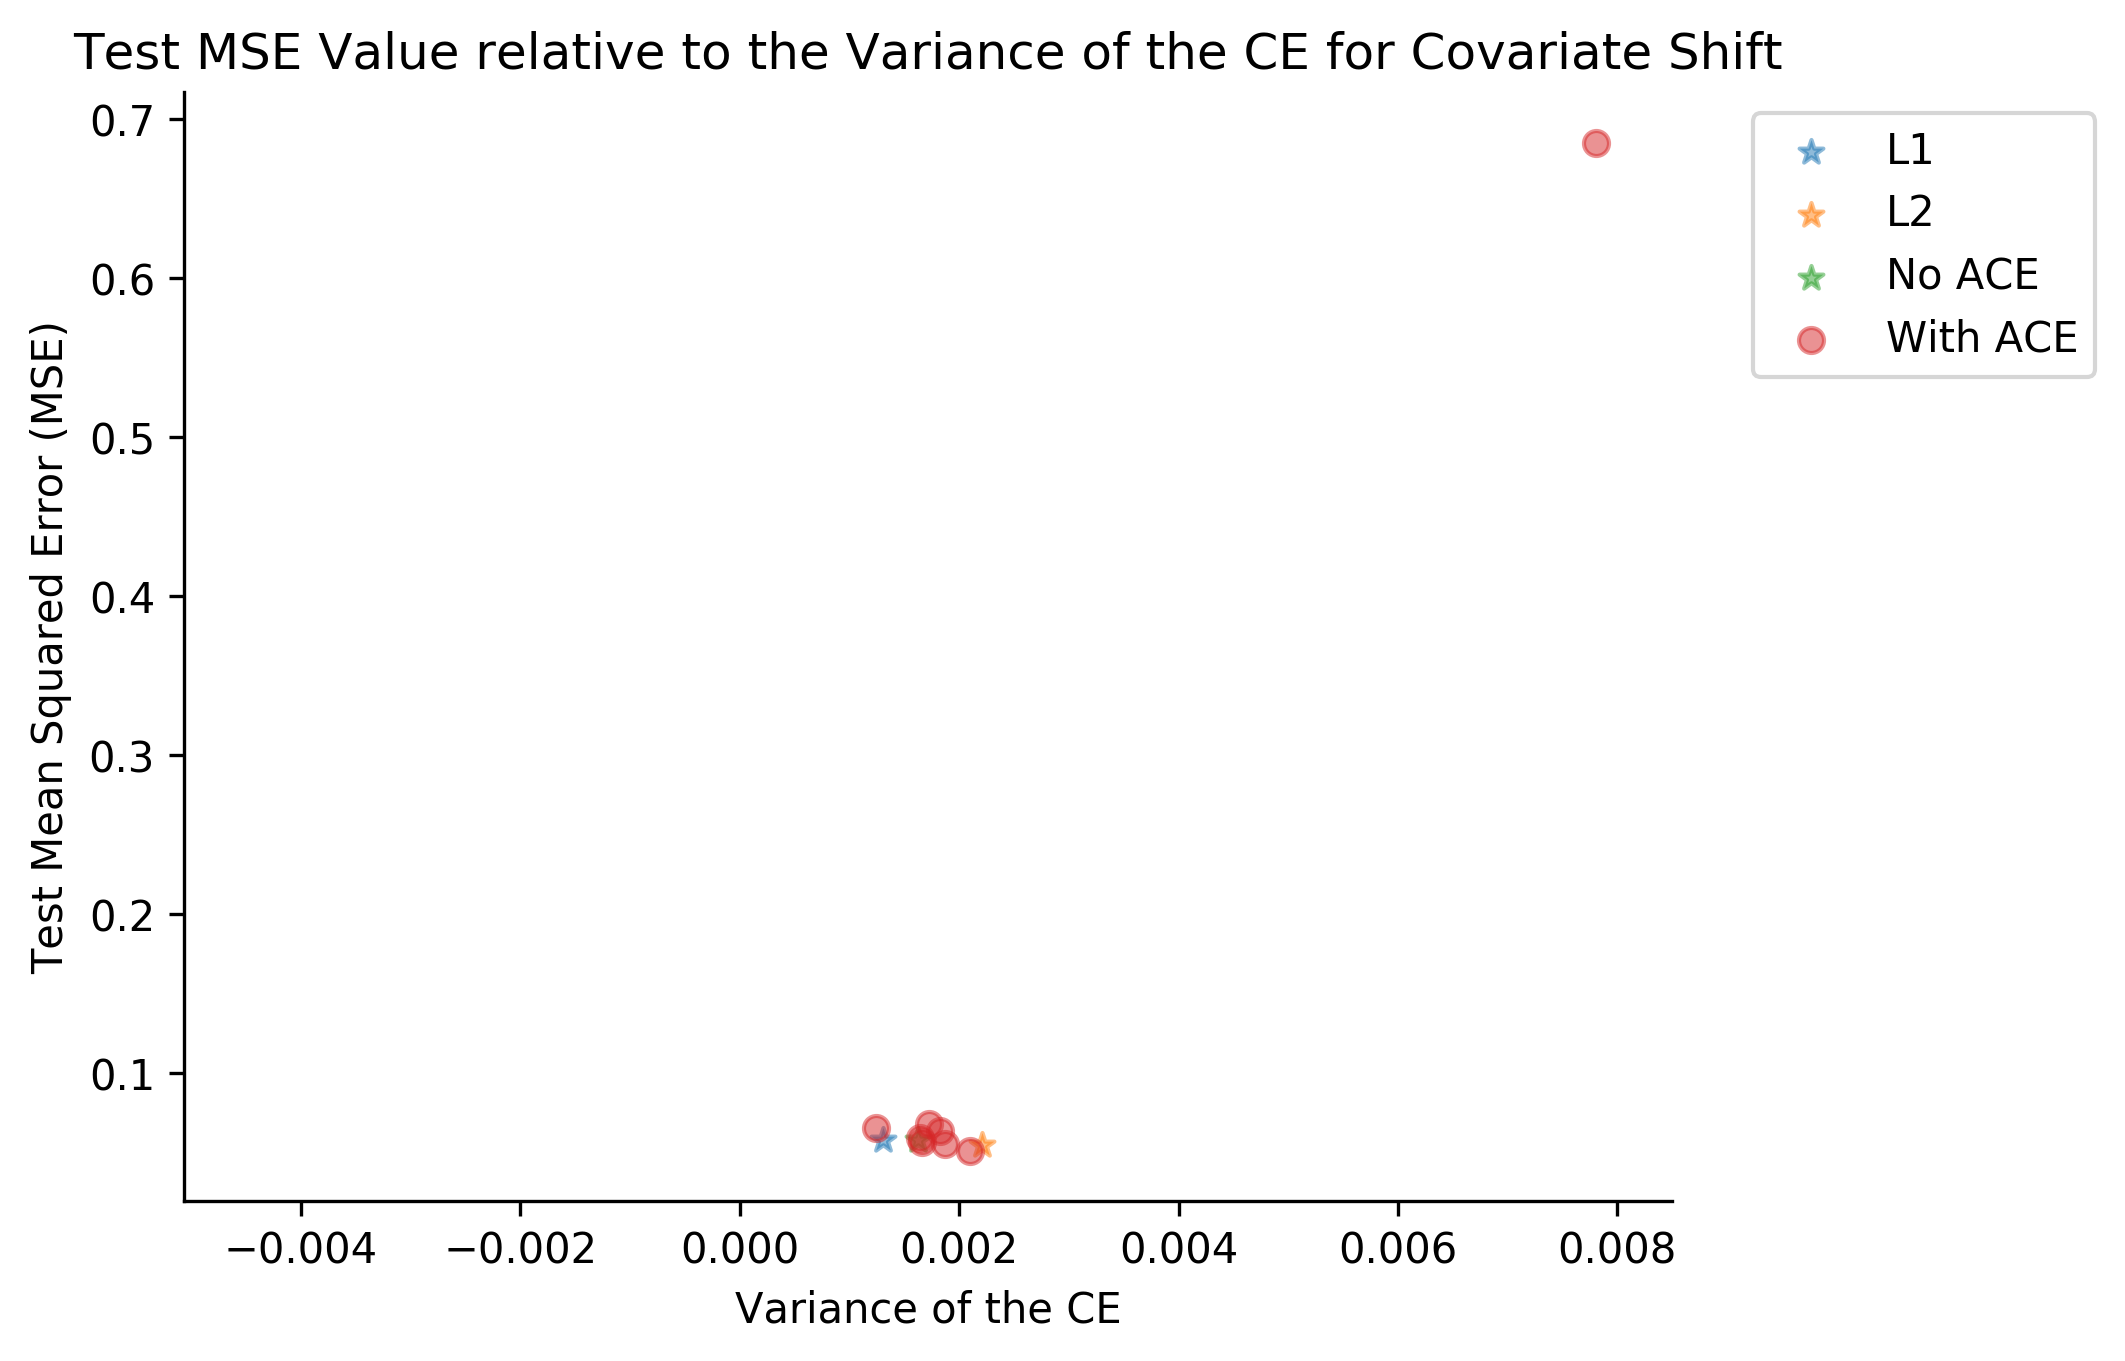
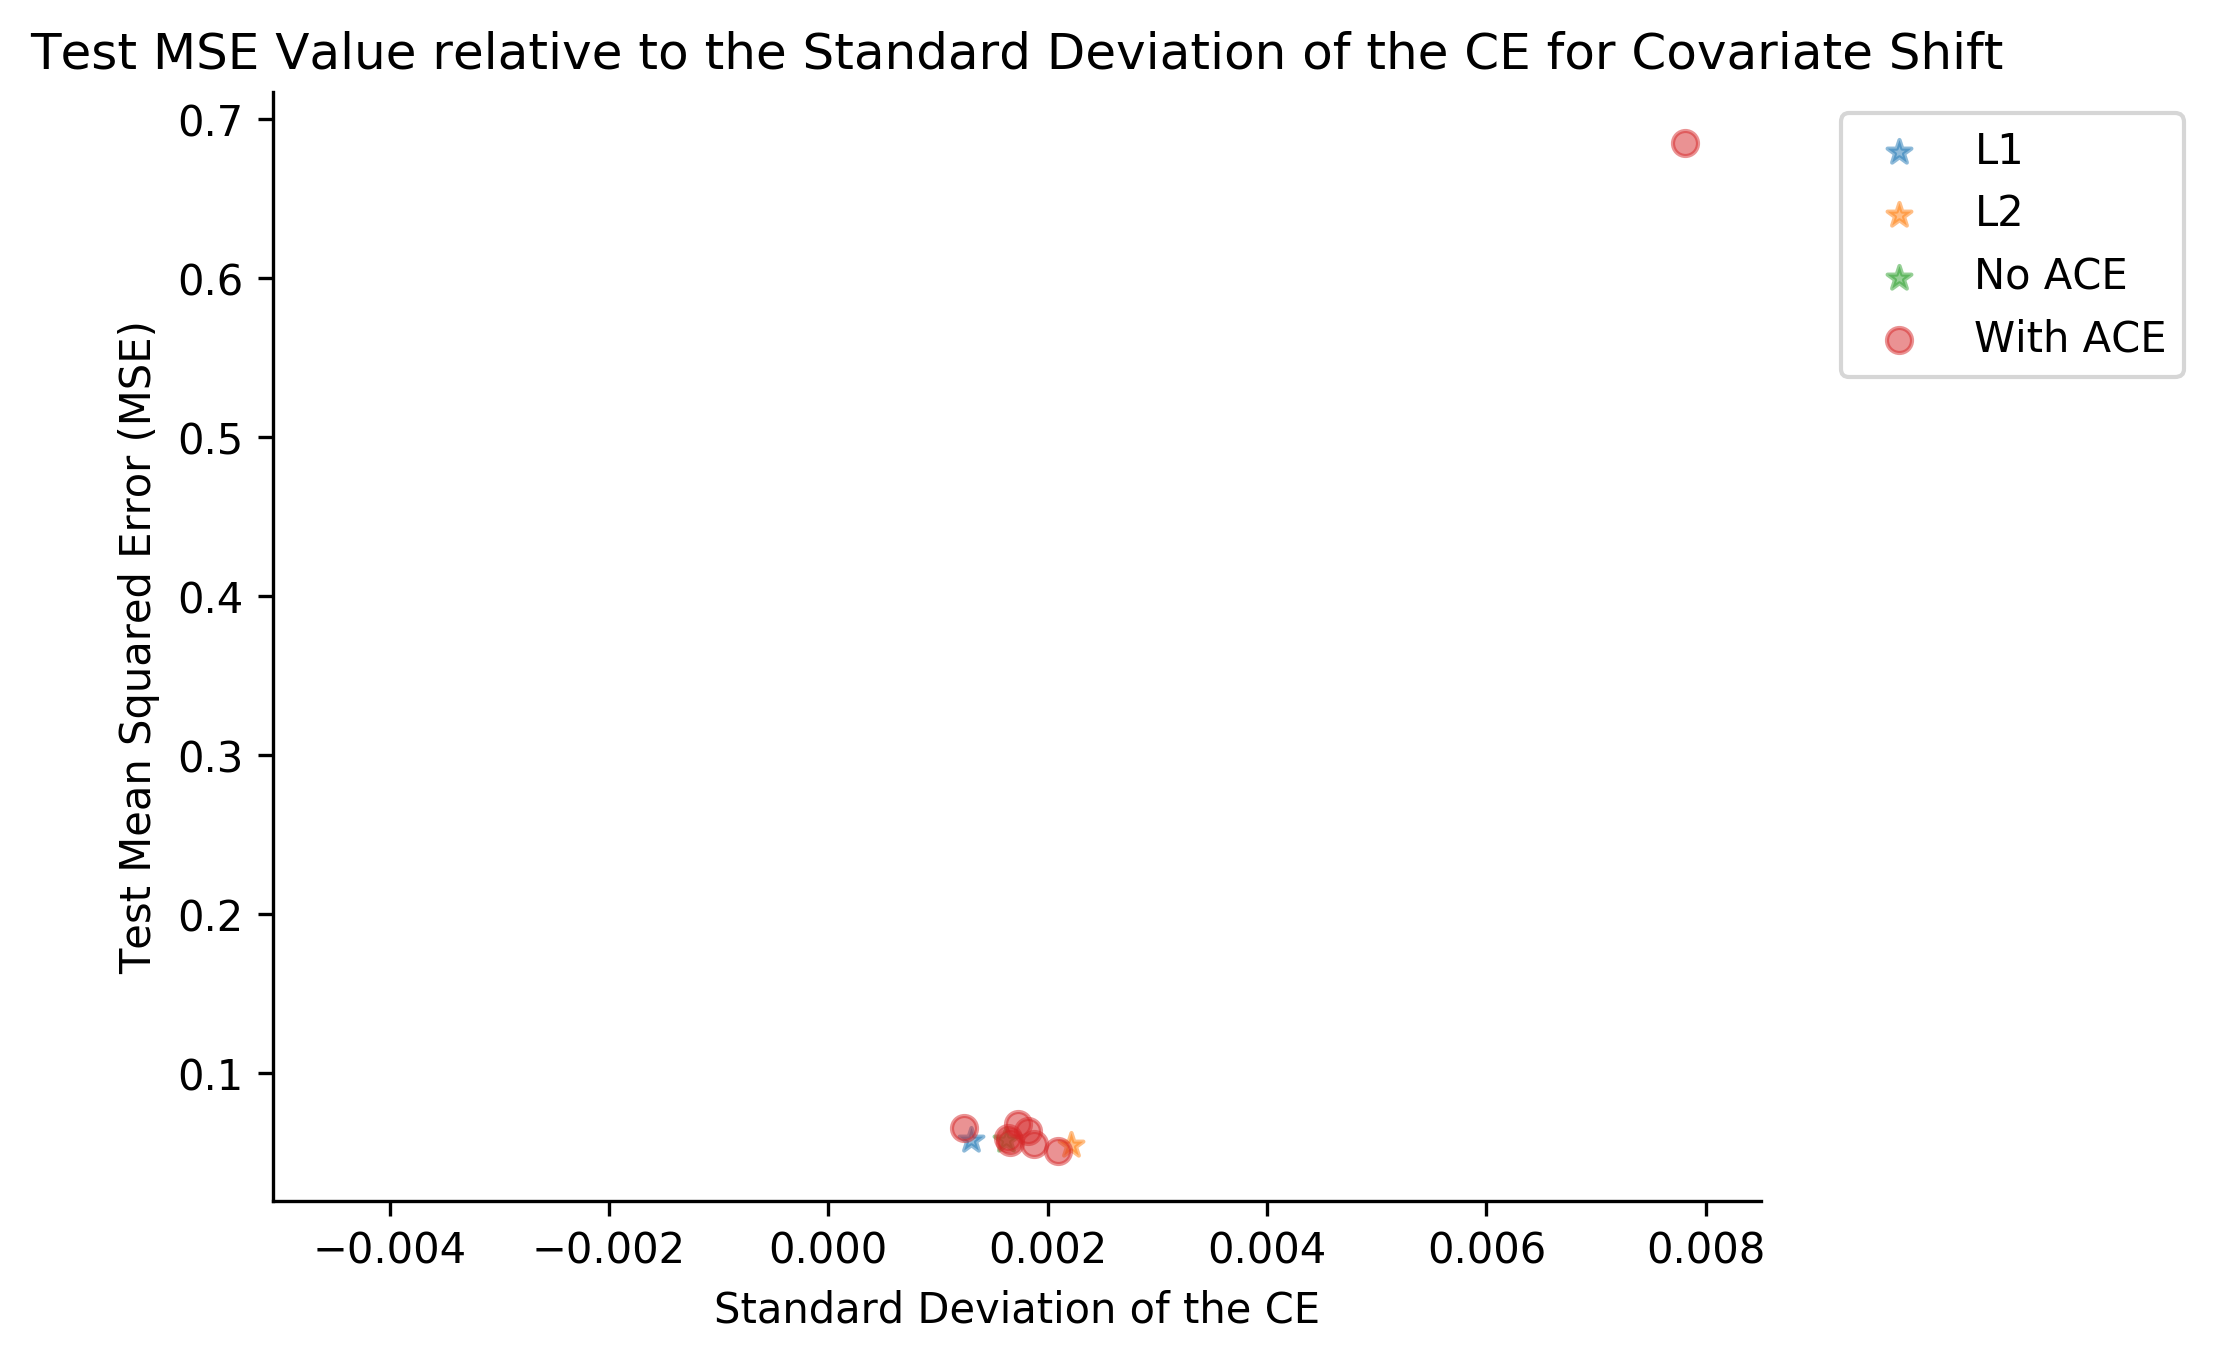
updated Figs

diff --git a/Project/plotting_results.py b/Project/plotting_results.py
@@ -1931,7 +1931,7 @@ plt.gca().spines['right'].set_visible(False)
 
 plt.xlabel('Training Epoch')
 plt.ylabel('Causal Effect (CE)')
-plt.title('CE Developement over the Training Epochs for each Case')
+plt.title('CE Development over the Training Epochs for each Case')
 plt.legend(loc='upper left', bbox_to_anchor=(1.04,1))
 plt.savefig('ACE_entwicklung_369.png', dpi=300, bbox_inches="tight")
 plt.close()
@@ -2040,7 +2040,7 @@ plt.gca().spines['right'].set_visible(False)
 
 plt.xlabel('Training Epoch')
 plt.ylabel('Causal Effect (CE)')
-plt.title('CE Developement over the Training Epochs for each Case')
+plt.title('CE Development over the Training Epochs for each Case')
 plt.legend(loc='upper left', bbox_to_anchor=(1.04,1))
 plt.savefig('ACE_entwicklung_394.png', dpi=300, bbox_inches="tight")
 plt.close()
@@ -2150,7 +2150,7 @@ plt.gca().spines['right'].set_visible(False)
 
 plt.xlabel('Training Epoch')
 plt.ylabel('Causal Effect (CE)')
-plt.title('CE Developement over the Training Epochs for each Case')
+plt.title('CE Development over the Training Epochs for each Case')
 plt.legend(loc='upper left', bbox_to_anchor=(1.04,1))
 plt.savefig('ACE_entwicklung_433.png', dpi=300, bbox_inches="tight")
 plt.close()
@@ -2259,7 +2259,7 @@ plt.gca().spines['right'].set_visible(False)
 
 plt.xlabel('Training Epoch')
 plt.ylabel('Causal Effect (CE)')
-plt.title('CE Developement over the Training Epochs for each Case')
+plt.title('CE Development over the Training Epochs for each Case')
 plt.legend(loc='upper left', bbox_to_anchor=(1.04,1))
 plt.savefig('ACE_entwicklung_501.png', dpi=300, bbox_inches="tight")
 plt.close()
@@ -2366,7 +2366,7 @@ plt.gca().spines['right'].set_visible(False)
 
 plt.xlabel('Training Epoch')
 plt.ylabel('Causal Effect (CE)')
-plt.title('CE Developement over the Training Epochs for each Case')
+plt.title('CE Development over the Training Epochs for each Case')
 plt.legend(loc='upper left', bbox_to_anchor=(1.04,1))
 plt.savefig('ACE_entwicklung_50100.png', dpi=300, bbox_inches="tight")
 plt.close()
@@ -2474,7 +2474,7 @@ plt.gca().spines['right'].set_visible(False)
 
 plt.xlabel('Training Epoch')
 plt.ylabel('Causal Effect (CE)')
-plt.title('CE Developement over the Training Epochs for each Case')
+plt.title('CE Development over the Training Epochs for each Case')
 plt.legend(loc='upper left', bbox_to_anchor=(1.04,1))
 plt.savefig('ACE_entwicklung_50.png', dpi=300, bbox_inches="tight")
 plt.close()
@@ -2583,7 +2583,7 @@ plt.gca().spines['right'].set_visible(False)
 
 plt.xlabel('Training Epoch')
 plt.ylabel('Causal Effect (CE)')
-plt.title('CE Developement over the Training Epochs for each Case')
+plt.title('CE Development over the Training Epochs for each Case')
 plt.legend(loc='upper left', bbox_to_anchor=(1.04,1))
 plt.savefig('ACE_entwicklung_noshift.png', dpi=300, bbox_inches="tight")
 plt.close()
@@ -2825,7 +2825,7 @@ plt.gca().spines['right'].set_visible(False)
 
 plt.xlabel('Training Epoch')
 plt.ylabel('Causal Effect (CE)')
-plt.title('CE Developement over the Training Epochs for all Datasets Combined')
+plt.title('CE Development over the Training Epochs for all Datasets Combined')
 plt.legend(loc='upper left', bbox_to_anchor=(1.04,1))
 plt.savefig('ACE_entwicklung_overall.png', dpi=300, bbox_inches="tight")
 plt.close()
@@ -2946,7 +2946,7 @@ plt.gca().spines['right'].set_visible(False)
 
 plt.xlabel('Training Epoch')
 plt.ylabel('Causal Effect (CE)')
-plt.title('CE Developement over the Training Epochs for each Case')
+plt.title('CE Development over the Training Epochs for each Case')
 plt.legend(loc='upper left', bbox_to_anchor=(1.04,1))
 plt.savefig('ACE_entwicklung_factors.png', dpi=300, bbox_inches="tight")
 plt.close()
@@ -3081,7 +3081,7 @@ plt.gca().spines['right'].set_visible(False)
 
 plt.xlabel('Training Epoch')
 plt.ylabel('Causal Effect (CE)')
-plt.title('CE Developement over the Training Epochs for each Case')
+plt.title('CE Development over the Training Epochs for each Case')
 plt.legend(loc='upper left', bbox_to_anchor=(1.04,1))
 plt.savefig('ACE_entwicklung_bias.png', dpi=300, bbox_inches="tight")
 plt.close()
@@ -3524,7 +3524,7 @@ plt.gca().spines['right'].set_visible(False)
 
 plt.xlabel('Training Epoch')
 plt.ylabel('Mean Squared Error (MSE)')
-plt.title('MSE Developement over the Training Epochs')
+plt.title('MSE Development over the Training Epochs')
 plt.legend(loc='upper left', bbox_to_anchor=(1.04,1))
 plt.title('Training MSE for all Datasets Combined')
 plt.savefig('Trainingserror_entwicklung_overall.png', dpi=300, bbox_inches="tight")
@@ -3594,7 +3594,7 @@ plt.gca().spines['right'].set_visible(False)
 
 plt.xlabel('Training Epoch')
 plt.ylabel('Mean Squared Error (MSE)')
-plt.title('MSE Developement over the Training Epochs')
+plt.title('MSE Development over the Training Epochs')
 plt.legend(loc='upper left', bbox_to_anchor=(1.04,1))
 plt.savefig('Trainingserror_entwicklung_factors.png', dpi=300, bbox_inches="tight")
 plt.close()
@@ -3663,7 +3663,7 @@ plt.gca().spines['right'].set_visible(False)
 
 plt.xlabel('Training Epoch')
 plt.ylabel('Mean Squared Error (MSE)')
-plt.title('MSE Developement over the Training Epochs')
+plt.title('MSE Development over the Training Epochs')
 plt.legend(loc='upper left', bbox_to_anchor=(1.04,1))
 plt.savefig('Trainingserror_entwicklung_bias.png', dpi=300, bbox_inches="tight")
 plt.close()
@@ -4108,7 +4108,7 @@ plt.gca().spines['right'].set_visible(False)
 
 plt.xlabel('Training Epoch')
 plt.ylabel('Variance of the ACE')
-plt.title('MSE Developement over the Training Epochs')
+plt.title('MSE Development over the Training Epochs')
 plt.legend(loc='upper left', bbox_to_anchor=(1.04,1))
 plt.title('Variance for all Datasets Combined')
 plt.savefig('Varianz_overall.png', dpi=300, bbox_inches="tight")
@@ -4178,7 +4178,7 @@ plt.gca().spines['right'].set_visible(False)
 
 plt.xlabel('Training Epoch')
 plt.ylabel('Variance of the ACE')
-plt.title('MSE Developement over the Training Epochs')
+plt.title('MSE Development over the Training Epochs')
 plt.legend(loc='upper left', bbox_to_anchor=(1.04,1))
 plt.title('Variance for Covariate Shift')
 plt.savefig('Varianz_factors.png', dpi=300, bbox_inches="tight")
@@ -4248,7 +4248,7 @@ plt.gca().spines['right'].set_visible(False)
 
 plt.xlabel('Training Epoch')
 plt.ylabel('Variance of the ACE')
-plt.title('MSE Developement over the Training Epochs')
+plt.title('MSE Development over the Training Epochs')
 plt.legend(loc='upper left', bbox_to_anchor=(1.04,1))
 plt.title('Variance for Prior Probability Shift')
 plt.savefig('Varianz_bias.png', dpi=300, bbox_inches="tight")
@@ -4494,8 +4494,8 @@ plt.gca().spines['top'].set_visible(False)
 plt.gca().spines['right'].set_visible(False)
 #plt.xlim(left=0)
 plt.xlabel('Causal Effect (CE)')
-plt.ylabel('Variance of the CE')
-plt.title('Variance of the CE relative to the CE Value for Covariate Shift')
+plt.ylabel('Standard Deviation of the CE')
+plt.title('Standard Deviation of the CE relative to the CE Value for Covariate Shift')
 plt.legend(loc='upper left', bbox_to_anchor=(1.04,1))
 plt.savefig('varianz_ACE_factor.png', dpi=300, bbox_inches="tight")
 plt.close()
@@ -4508,8 +4508,8 @@ plt.gca().spines['top'].set_visible(False)
 plt.gca().spines['right'].set_visible(False)
 #plt.xlim(left=0)
 plt.xlabel('Causal Effect (CE)')
-plt.ylabel('Variance of the CE')
-plt.title('Variance of the CE relative to the CE Value for Prior Probability Shift')
+plt.ylabel('Standard Deviation of the CE')
+plt.title('Standard Deviation of the CE relative to the CE Value for Prior Probability Shift')
 plt.legend(loc='upper left', bbox_to_anchor=(1.04,1))
 plt.savefig('varianz_ACE_bias.png', dpi=300, bbox_inches="tight")
 plt.close()
@@ -4522,8 +4522,8 @@ plt.gca().spines['top'].set_visible(False)
 plt.gca().spines['right'].set_visible(False)
 #plt.xlim(left=0)
 plt.xlabel('Causal Effect (CE)')
-plt.ylabel('Variance of the CE')
-plt.title('Variance of the CE relative to the CE Value')
+plt.ylabel('Standard Deviation of the CE')
+plt.title('Standard Deviation of the CE relative to the CE Value')
 plt.legend(loc='upper left', bbox_to_anchor=(1.04,1))
 plt.savefig('varianz_ACE_overall.png', dpi=300, bbox_inches="tight")
 plt.close()
@@ -4537,9 +4537,9 @@ plt.scatter(np.sqrt(mean_var_withACE_factor),mean_MSE_withACE_factor, label="Wit
 plt.gca().spines['top'].set_visible(False)
 plt.gca().spines['right'].set_visible(False)
 #plt.xlim(left=0)
-plt.xlabel('Variance of the CE')
+plt.xlabel('Standard Deviation of the CE')
 plt.ylabel('Test Mean Squared Error (MSE)')
-plt.title('Test MSE Value relative to the Variance of the CE for Covariate Shift')
+plt.title('Test MSE Value relative to the Standard Deviation of the CE for Covariate Shift')
 plt.legend(loc='upper left', bbox_to_anchor=(1.04,1))
 plt.savefig('MSE_varianz_factor.png', dpi=300, bbox_inches="tight")
 plt.close()
@@ -4551,9 +4551,9 @@ plt.scatter(np.sqrt(mean_var_withACE_bias),mean_MSE_withACE_bias, label="With AC
 plt.gca().spines['top'].set_visible(False)
 plt.gca().spines['right'].set_visible(False)
 #plt.xlim(left=0)
-plt.xlabel('Variance of the CE')
+plt.xlabel('Standard Deviation of the CE')
 plt.ylabel('Test Mean Squared Error (MSE)')
-plt.title('Test MSE Value relative to the Variance of the CE for Prior Probability Shift')
+plt.title('Test MSE Value relative to the Standard Deviation of the CE for Prior Probability Shift')
 plt.legend(loc='upper left', bbox_to_anchor=(1.04,1))
 plt.savefig('MSE_varianz_bias.png', dpi=300, bbox_inches="tight")
 plt.close()
@@ -4565,9 +4565,9 @@ plt.scatter(np.sqrt(mean_var_withACE_overall),mean_MSE_withACE_overall, label="W
 plt.gca().spines['top'].set_visible(False)
 plt.gca().spines['right'].set_visible(False)
 #plt.xlim(left=0)
-plt.xlabel('Variance of the CE')
+plt.xlabel('Standard Deviation of the CE')
 plt.ylabel('Test Mean Squared Error (MSE)')
-plt.title('Test MSE Value relative to the Variance of the CE')
+plt.title('Test MSE Value relative to the Standard Deviation of the CE')
 plt.legend(loc='upper left', bbox_to_anchor=(1.04,1))
 plt.savefig('MSE_varianz_overall.png', dpi=300, bbox_inches="tight")
 plt.close()
